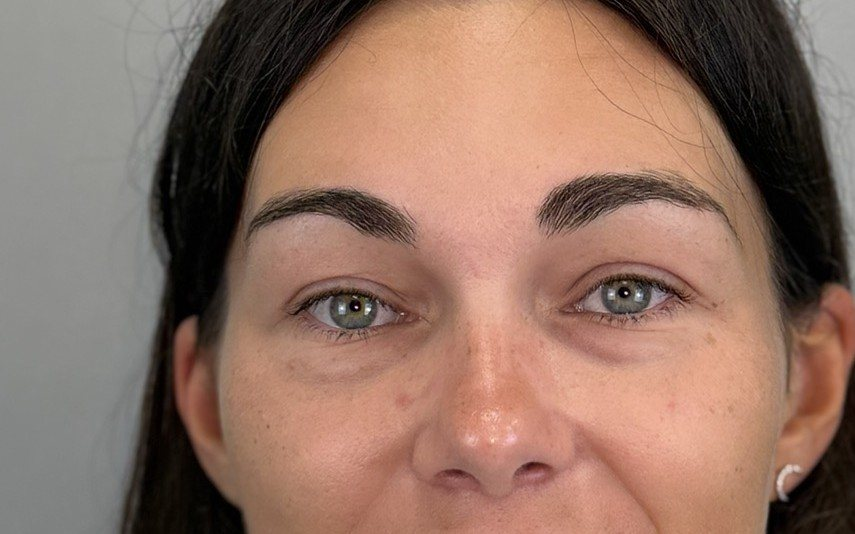
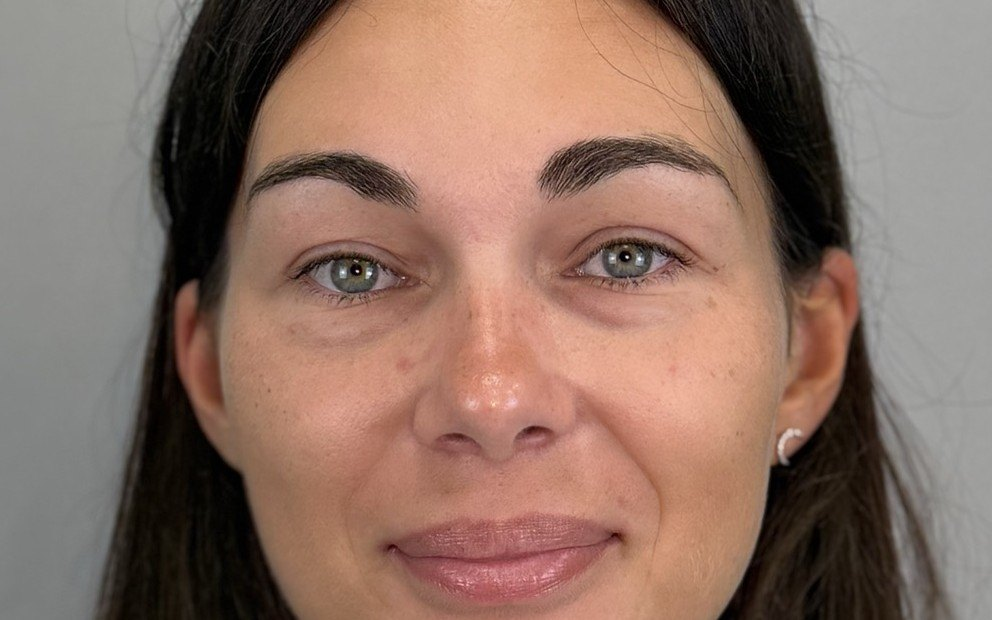
Fix before/after slider drag and lower blepharoplasty photo scale
Images inside the slider were triggering the browser's native
drag-image gesture instead of the custom divider drag, so dragging
only jumped to the click position. Disabled native drag on the
slider images (draggable=false, -webkit-user-drag:none,
pointer-events:none) so pointer events reach the slider logic.

Also recropped the lower blepharoplasty before/after pair using
precisely measured pupil positions (previous crop had mismatched
eye scale between before/after).

diff --git a/production/index.html b/production/index.html
@@ -26,7 +26,7 @@
 <link rel="preconnect" href="https://fonts.gstatic.com" crossorigin>
 <link href="https://fonts.googleapis.com/css2?family=Source+Serif+4:ital,opsz,wght@0,8..60,400;0,8..60,500;0,8..60,600;0,8..60,700;1,8..60,400;1,8..60,500&family=IBM+Plex+Sans:wght@300;400;500;600&family=IBM+Plex+Mono:wght@400;500&family=Montserrat:wght@400;500;600&display=swap" rel="stylesheet">
 
-<link rel="stylesheet" href="styles.css?v=26">
+<link rel="stylesheet" href="styles.css?v=27">
 
 <script type="application/ld+json">
 {
@@ -198,9 +198,9 @@
     <div>
       <div class="ba-stage" id="ba-stage">
         <div class="ba-layer" id="ba-layer">
-          <div class="ba-before"><img id="ba-before-img" alt="" hidden><div class="ba-placeholder" id="ba-before-placeholder">Фото «до» появится после публикации кейса</div></div>
+          <div class="ba-before"><img id="ba-before-img" alt="" hidden draggable="false"><div class="ba-placeholder" id="ba-before-placeholder">Фото «до» появится после публикации кейса</div></div>
           <div class="ba-after-clip" id="ba-after-clip">
-            <div class="ba-after"><img id="ba-after-img" alt="" hidden><div class="ba-placeholder" id="ba-after-placeholder">Фото «после» появится после публикации кейса</div></div>
+            <div class="ba-after"><img id="ba-after-img" alt="" hidden draggable="false"><div class="ba-placeholder" id="ba-after-placeholder">Фото «после» появится после публикации кейса</div></div>
           </div>
         </div>
         <div class="ba-divider" id="ba-divider"><div class="ba-divider-grip"><i></i><i></i></div></div>
@@ -549,22 +549,22 @@
 <script src="https://cdn.jsdelivr.net/npm/gsap@3.13.0/dist/SplitText.min.js"></script>
 <script src="https://cdn.jsdelivr.net/npm/gsap@3.13.0/dist/DrawSVGPlugin.min.js"></script>
 
-<script src="ap5-figure.js?v=26"></script>
-<script src="availability.js?v=26"></script>
-<script src="booking.js?v=26"></script>
-<script src="app.js?v=26"></script>
+<script src="ap5-figure.js?v=27"></script>
+<script src="availability.js?v=27"></script>
+<script src="booking.js?v=27"></script>
+<script src="app.js?v=27"></script>
 
 <!-- Motion system — loads after app.js so dynamically-created elements
      (rail buttons, subnav, booking panels) already exist in the DOM. -->
-<script src="motion/global.js?v=26"></script>
-<script src="motion/hero.js?v=26"></script>
-<script src="motion/requests.js?v=26"></script>
-<script src="motion/results.js?v=26"></script>
-<script src="motion/works.js?v=26"></script>
-<script src="motion/approach.js?v=26"></script>
-<script src="motion/price.js?v=26"></script>
-<script src="motion/explains.js?v=26"></script>
-<script src="motion/booking.js?v=26"></script>
-<script src="motion/router.js?v=26"></script>
+<script src="motion/global.js?v=27"></script>
+<script src="motion/hero.js?v=27"></script>
+<script src="motion/requests.js?v=27"></script>
+<script src="motion/results.js?v=27"></script>
+<script src="motion/works.js?v=27"></script>
+<script src="motion/approach.js?v=27"></script>
+<script src="motion/price.js?v=27"></script>
+<script src="motion/explains.js?v=27"></script>
+<script src="motion/booking.js?v=27"></script>
+<script src="motion/router.js?v=27"></script>
 </body>
 </html>

diff --git a/production/styles.css b/production/styles.css
@@ -163,7 +163,7 @@ input,textarea{ font-family:inherit; }
 .ba-layer{ position:absolute; inset:0; }
 .ba-layer[hidden]{ display:none; }
 .ba-before, .ba-after{ position:absolute; inset:0; background:#1c1c1f; display:flex; align-items:center; justify-content:center; }
-.ba-before img, .ba-after img{ width:100%; height:100%; object-fit:contain; object-position:50% 50%; display:block; }
+.ba-before img, .ba-after img{ width:100%; height:100%; object-fit:contain; object-position:50% 50%; display:block; -webkit-user-drag:none; user-drag:none; pointer-events:none; }
 .ba-after-clip{ position:absolute; inset:0; }
 .ba-placeholder{ font-family:'IBM Plex Mono',monospace; font-size:10.5px; letter-spacing:0.14em; text-transform:uppercase; color:rgba(244,244,243,0.42); text-align:center; padding:0 20px; }
 .ba-divider{ position:absolute; top:0; bottom:0; width:1px; background:rgba(244,244,243,0.9); pointer-events:none; }
